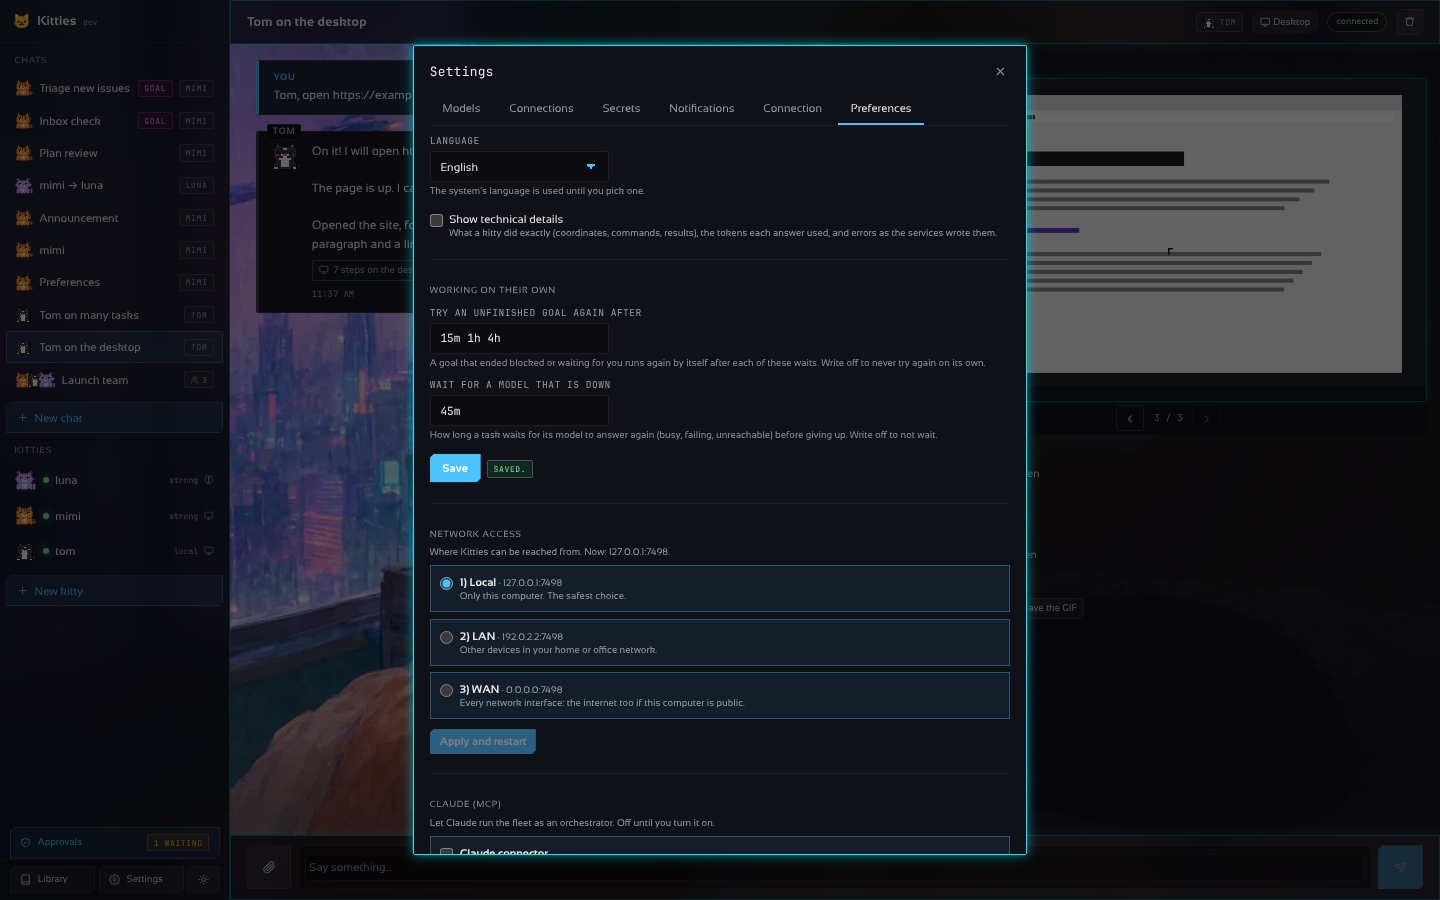
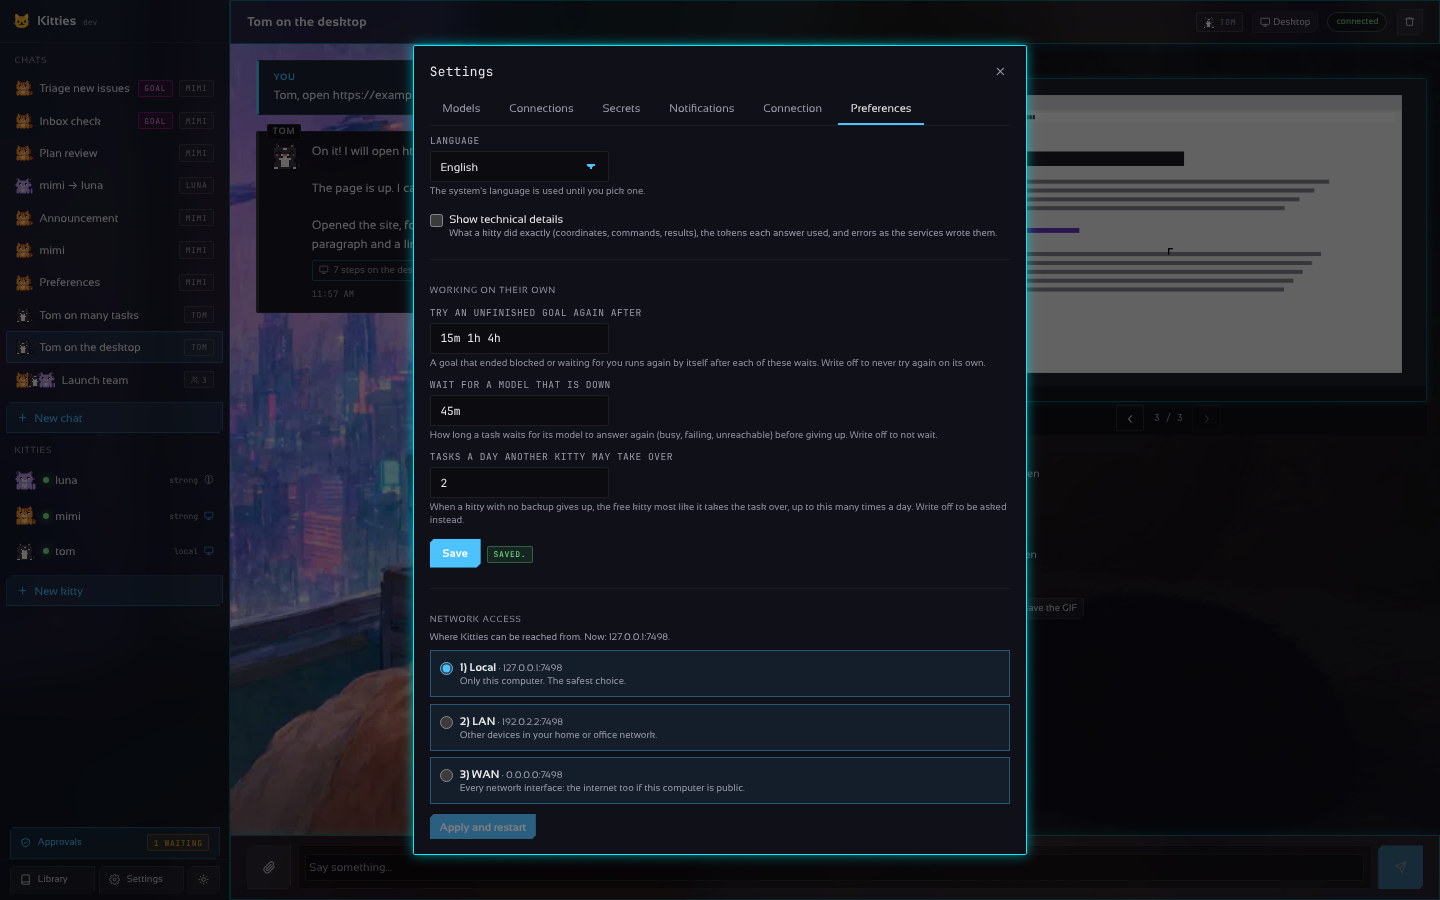
feat(chat): pick the most alike stand-in and cap stand-ins a day
The stand-in for a kitty without a backup is now the free kitty most
like it (connectors it uses, shared soul skills, machine on), and a
kitty may hand at most `autonomy.stand_ins` tasks a day (3 by default,
"off" asks the person), so an impossible task does not tour the fleet.
Settings field, docs and screenshot updated.

Claude-Session: https://claude.ai/code/session_017Z7sUZPBrqHudNwxj2SLN7

Changed region(s): [[0.2812, 0.4978, 0.5312, 0.9333], [0.625, 0.56, 0.6875, 0.5911], [0.4375, 0.4978, 0.4688, 0.5289]]

diff --git a/desktop/frontend/src/Settings.tsx b/desktop/frontend/src/Settings.tsx
@@ -1763,13 +1763,18 @@ function AutonomyForm({
 }) {
   const [followUps, setFollowUps] = useState(view.autonomy?.follow_ups || "");
   const [brainWait, setBrainWait] = useState(view.autonomy?.brain_wait || "");
+  const [standIns, setStandIns] = useState(view.autonomy?.stand_ins || "");
   const [msg, flash] = useFlash();
   const [err, setErr] = useState("");
   const save = async () => {
     setErr("");
     try {
       onSaved(
-        await api.setAutonomy({ follow_ups: followUps.trim(), brain_wait: brainWait.trim() }),
+        await api.setAutonomy({
+          follow_ups: followUps.trim(),
+          brain_wait: brainWait.trim(),
+          stand_ins: standIns.trim(),
+        }),
       );
       flash(t("Saved."));
     } catch (e) {
@@ -1807,6 +1812,21 @@ function AutonomyForm({
       <p class={HELP}>
         {t(
           "How long a task waits for its model to answer again (busy, failing, unreachable) before giving up. Write off to not wait.",
+        )}
+      </p>
+      <label class={LABEL} for="auto-stand-ins">
+        {t("Tasks a day another kitty may take over")}
+      </label>
+      <input
+        id="auto-stand-ins"
+        class={`${INPUT} !w-56 font-mono`}
+        value={standIns}
+        onInput={(e) => setStandIns((e.target as HTMLInputElement).value)}
+        placeholder="3"
+      />
+      <p class={HELP}>
+        {t(
+          "When a kitty with no backup gives up, the free kitty most like it takes the task over, up to this many times a day. Write off to be asked instead.",
         )}
       </p>
       <div class="flex items-center gap-2 mt-4 flex-wrap">

diff --git a/desktop/frontend/src/api.ts b/desktop/frontend/src/api.ts
@@ -373,7 +373,7 @@ export interface SettingsView {
   notify: { connector: string; on: string[]; digest?: string; day?: boolean };
   notify_events: string[];
   // autonomy is how long the kitties keep at a task on their own: empty takes the defaults.
-  autonomy?: { follow_ups: string; brain_wait: string };
+  autonomy?: { follow_ups: string; brain_wait: string; stand_ins?: string };
   accounts: Account[];
   // oauth_ready are the services a connection signs in to without an app of the person's own.
   oauth_ready?: string[];
@@ -940,7 +940,7 @@ export const api = {
     request("POST", `/v1/chats/${chat}/turns/${index}/feedback`, { rating, note }),
   setNotify: (c: { connector: string; on: string[]; digest?: string }) =>
     request<SettingsView>("PUT", "/v1/settings/notify", c),
-  setAutonomy: (a: { follow_ups: string; brain_wait: string }) =>
+  setAutonomy: (a: { follow_ups: string; brain_wait: string; stand_ins: string }) =>
     request<SettingsView>("PUT", "/v1/settings/autonomy", a),
   testNotify: (connector = "") =>
     request<{ ok: boolean; error?: string }>("POST", "/v1/settings/notify/test", { connector }),

diff --git a/desktop/frontend/e2e/screens.spec.ts b/desktop/frontend/e2e/screens.spec.ts
@@ -1808,6 +1808,7 @@ test("how long the kitties keep at a task on their own: checked, saved and kept"
   await expect(box).toContainText("autonomy.brain_wait");
   await box.locator("#auto-follow-ups").fill("15m 1h 4h");
   await box.locator("#auto-brain-wait").fill("45m");
+  await box.locator("#auto-stand-ins").fill("2");
   await box.getByTestId("autonomy-save").click();
   await expect(box.getByText("Saved.")).toBeVisible();
   await box.scrollIntoViewIfNeeded();
@@ -1817,8 +1818,10 @@ test("how long the kitties keep at a task on their own: checked, saved and kept"
   await page.locator("aside").getByRole("button", { name: "Settings" }).click();
   await page.getByRole("tab", { name: "Preferences" }).click();
   await expect(box.locator("#auto-follow-ups")).toHaveValue("15m 1h 4h");
+  await expect(box.locator("#auto-stand-ins")).toHaveValue("2");
   await box.locator("#auto-follow-ups").fill("");
   await box.locator("#auto-brain-wait").fill("");
+  await box.locator("#auto-stand-ins").fill("");
   await box.getByTestId("autonomy-save").click();
   await expect(box.getByText("Saved.")).toBeVisible();
 });

diff --git a/desktop/frontend/src/i18n/es/settings.ts b/desktop/frontend/src/i18n/es/settings.ts
@@ -63,6 +63,9 @@ const dict: Dictionary = {
   "Only to reach it through a proxy or a compatible service.":
     "Solo para llegar a él a través de un proxy o un servicio compatible.",
   "Longest answer (tokens)": "Respuesta más larga (tokens)",
+  "Tasks a day another kitty may take over": "Tareas al día que otro kitty puede tomar",
+  "When a kitty with no backup gives up, the free kitty most like it takes the task over, up to this many times a day. Write off to be asked instead.":
+    "Cuando un kitty sin respaldo se rinde, el kitty libre más parecido toma la tarea, hasta esta cantidad de veces al día. Escribe off para que te pregunten a ti.",
   "Working on their own": "Trabajo por su cuenta",
   "Try an unfinished goal again after": "Reintentar un objetivo sin terminar tras",
   "A goal that ended blocked or waiting for you runs again by itself after each of these waits. Write off to never try again on its own.":

diff --git a/desktop/frontend/src/i18n/pt/settings.ts b/desktop/frontend/src/i18n/pt/settings.ts
@@ -63,6 +63,9 @@ const dict: Dictionary = {
   "Only to reach it through a proxy or a compatible service.":
     "Só para chegar a ele por um proxy ou um serviço compatível.",
   "Longest answer (tokens)": "Resposta mais longa (tokens)",
+  "Tasks a day another kitty may take over": "Tarefas por dia que outro kitty pode assumir",
+  "When a kitty with no backup gives up, the free kitty most like it takes the task over, up to this many times a day. Write off to be asked instead.":
+    "Quando um kitty sem reserva desiste, o kitty livre mais parecido assume a tarefa, até este número de vezes por dia. Escreva off para que perguntem a você.",
   "Working on their own": "Trabalho por conta própria",
   "Try an unfinished goal again after": "Tentar de novo um objetivo inacabado após",
   "A goal that ended blocked or waiting for you runs again by itself after each of these waits. Write off to never try again on its own.":

diff --git a/internal/chat/autonomy.go b/internal/chat/autonomy.go
@@ -291,15 +291,74 @@ func (s *Service) giveUp(id string, index int, k *kitty.Kitty, fail string) (res
 }
 
 // standIn is the kitty that takes over a task k gave up on when k names no backup: another one
-// with a desktop as k has, not in error and not at work on something else; nil when none is free.
+// with a desktop as k has, not in error and not at work on something else, the most like k
+// (the connectors k uses, the skills of its soul); nil when none is free, or when k has handed
+// over as many tasks today as its stand-ins allow.
 func (s *Service) standIn(k *kitty.Kitty) *kitty.Kitty {
+	var best *kitty.Kitty
+	bestScore := -1
 	for _, other := range s.fleet.List() {
 		if other.ID == k.ID || other.Desktop != k.Desktop || other.Status == kitty.StatusError || s.KittyBusy(other.ID) {
 			continue
 		}
-		return other
+		if score := likeness(k, other); score > bestScore {
+			best, bestScore = other, score
+		}
 	}
-	return nil
+	if best == nil || !s.standInLeft(k.ID) {
+		return nil
+	}
+	return best
+}
+
+// likeness is how well other can do k's work: two points for each connector of k it may use
+// too (a kitty with no list may use every one), one for each skill their souls share, and one
+// for a machine that is on.
+func likeness(k, other *kitty.Kitty) int {
+	score := 0
+	for _, c := range k.Connectors {
+		if len(other.Connectors) == 0 || contains(other.Connectors, c) {
+			score += 2
+		}
+	}
+	for _, a := range k.Soul.Skills {
+		for _, b := range other.Soul.Skills {
+			if strings.EqualFold(strings.TrimSpace(a), strings.TrimSpace(b)) {
+				score++
+				break
+			}
+		}
+	}
+	if other.Status == kitty.StatusRunning {
+		score++
+	}
+	return score
+}
+
+// DefaultStandIns is how many tasks a day a kitty without a backup may hand to a stand-in.
+const DefaultStandIns = 3
+
+// SetStandIns has the stand-ins a kitty may use a day read from fn (the settings); zero: none.
+func (s *Service) SetStandIns(fn func() int) { s.standInsFrom = fn }
+
+// standInLeft takes one of the kitty's stand-ins for today, and reports whether there was one.
+// The count starts again each day, so a task nobody can do does not go round the whole fleet.
+func (s *Service) standInLeft(kittyID string) bool {
+	limit := DefaultStandIns
+	if s.standInsFrom != nil {
+		limit = s.standInsFrom()
+	}
+	day := s.now().Format("2006-01-02")
+	s.mu.Lock()
+	defer s.mu.Unlock()
+	if s.standIns == nil || s.standInsDay != day {
+		s.standIns, s.standInsDay = map[string]int{}, day
+	}
+	if s.standIns[kittyID] >= limit {
+		return false
+	}
+	s.standIns[kittyID]++
+	return true
 }
 
 // lastRequest is what the thread asked for before the turn at index: the last message that

diff --git a/internal/chat/standin_test.go b/internal/chat/standin_test.go
@@ -4,6 +4,7 @@ import (
 	"context"
 	"strings"
 	"testing"
+	"time"
 
 	"github.com/madkoding/kitties/internal/kitty"
 	"github.com/madkoding/kitties/internal/soul"
@@ -55,5 +56,43 @@ func TestStandIn(t *testing.T) {
 	_, _ = s2.Send(context.Background(), c.ID, "go")
 	if turn := waitDone(t, s2, c.ID).Turns[1]; !turn.NeedsHelp {
 		t.Errorf("attended: %+v", turn)
+	}
+}
+
+func TestStandInIsTheMostAlikeAndCappedADay(t *testing.T) {
+	s, d, _ := deskService(t)
+	ana, _ := d.Get("ana") // connectors: echo
+	ana.Soul.Skills = []string{"Research", "writing"}
+	// cy has nothing in common; dee shares a skill; eve may use every connector and is on.
+	d.kitties["c1"] = &kitty.Kitty{ID: "c1", Name: "cy", Desktop: true, Connectors: []string{"other"}}
+	d.kitties["d1"] = &kitty.Kitty{ID: "d1", Name: "dee", Desktop: true, Connectors: []string{"other"}, Soul: soul.Soul{Skills: []string{" research "}}}
+	d.kitties["e1"] = &kitty.Kitty{ID: "e1", Name: "eve", Desktop: true, Status: kitty.StatusRunning}
+	if got := s.standIn(ana); got == nil || got.Name != "eve" {
+		t.Fatalf("most alike = %v", got)
+	}
+	if likeness(ana, d.kitties["d1"]) != 1 || likeness(ana, d.kitties["e1"]) != 3 || likeness(ana, d.kitties["c1"]) != 0 {
+		t.Error("likeness")
+	}
+	// Three a day by default (one already taken above), then nobody; a new day starts again.
+	now := time.Date(2026, 3, 2, 10, 0, 0, 0, time.UTC)
+	s.now = func() time.Time { return now }
+	s.standIns = nil
+	for i := 0; i < DefaultStandIns; i++ {
+		if s.standIn(ana) == nil {
+			t.Fatalf("stand-in %d refused", i+1)
+		}
+	}
+	if s.standIn(ana) != nil {
+		t.Error("past the day's stand-ins")
+	}
+	now = now.Add(24 * time.Hour)
+	if s.standIn(ana) == nil {
+		t.Error("a new day")
+	}
+	// From the settings: off means none.
+	s.SetStandIns(func() int { return 0 })
+	now = now.Add(24 * time.Hour)
+	if s.standIn(ana) != nil {
+		t.Error("off in the settings")
 	}
 }

diff --git a/internal/config/autonomy.go b/internal/config/autonomy.go
@@ -2,6 +2,7 @@ package config
 
 import (
 	"fmt"
+	"strconv"
 	"strings"
 	"time"
 )
@@ -11,11 +12,13 @@ import (
 //	autonomy:
 //	  follow_ups: 10m 30m 2h   # waits before a goal that did not finish runs again; "off": never
 //	  brain_wait: 30m          # how long a task waits for a model that is down; "off": not at all
+//	  stand_ins: 3             # tasks a day a kitty without a backup hands to a free one; "off": none
 //
 // Empty takes the defaults.
 type Autonomy struct {
 	FollowUps string `yaml:"follow_ups" json:"follow_ups"`
 	BrainWait string `yaml:"brain_wait" json:"brain_wait"`
+	StandIns  string `yaml:"stand_ins" json:"stand_ins"`
 }
 
 // maxWait is the longest single wait either setting takes.
@@ -32,8 +35,33 @@ func (a Autonomy) Validate() error {
 	if _, err := a.followUps(nil); err != nil {
 		return err
 	}
-	_, err := a.brainWait(0)
+	if _, err := a.brainWait(0); err != nil {
+		return err
+	}
+	_, err := a.standIns(0)
 	return err
+}
+
+// StandInsOr is how many tasks a day a kitty without a backup hands to a free kitty: def when
+// unset, zero when off.
+func (a Autonomy) StandInsOr(def int) int {
+	n, _ := a.standIns(def)
+	return n
+}
+
+func (a Autonomy) standIns(def int) (int, error) {
+	switch s := strings.TrimSpace(a.StandIns); {
+	case s == "":
+		return def, nil
+	case off(s):
+		return 0, nil
+	default:
+		n, err := strconv.Atoi(s)
+		if err != nil || n < 1 || n > 100 {
+			return def, fmt.Errorf("autonomy.stand_ins: %q is not a number between 1 and 100 (or off)", s)
+		}
+		return n, nil
+	}
 }
 
 // FollowUpWaits are the waits before the follow-ups of a goal that did not finish: def when

diff --git a/internal/config/autonomy_test.go b/internal/config/autonomy_test.go
@@ -18,6 +18,9 @@ func TestAutonomy(t *testing.T) {
 	if w := a.FollowUpWaits(def); len(w) != 3 || w[0] != 5*time.Minute || w[2] != 150*time.Minute || a.BrainWaitOr(time.Hour) != 45*time.Minute {
 		t.Errorf("waits = %v %v", w, a.BrainWaitOr(time.Hour))
 	}
+	if (Autonomy{}).StandInsOr(3) != 3 || (Autonomy{StandIns: "5"}).StandInsOr(3) != 5 || (Autonomy{StandIns: "off"}).StandInsOr(3) != 0 || (Autonomy{StandIns: "x"}).StandInsOr(3) != 3 {
+		t.Error("stand-ins")
+	}
 	for _, o := range []string{"off", "OFF", "0", "none"} {
 		a := Autonomy{FollowUps: o, BrainWait: o}
 		if a.Validate() != nil || a.FollowUpWaits(def) == nil || len(a.FollowUpWaits(def)) != 0 || a.BrainWaitOr(time.Hour) != 0 {
@@ -32,6 +35,8 @@ func TestAutonomy(t *testing.T) {
 		{Autonomy{FollowUps: "10s"}, "between 1m and 168h"},
 		{Autonomy{FollowUps: "1m 1m 1m 1m 1m 1m 1m 1m 1m 1m 1m"}, "10 at most"},
 		{Autonomy{BrainWait: "200h"}, "autonomy.brain_wait"},
+		{Autonomy{StandIns: "many"}, "autonomy.stand_ins"},
+		{Autonomy{StandIns: "500"}, "between 1 and 100"},
 	} {
 		if err := c.a.Validate(); err == nil || !strings.Contains(err.Error(), c.want) {
 			t.Errorf("%+v: %v", c.a, err)

diff --git a/cmd/kitties/main.go b/cmd/kitties/main.go
@@ -306,6 +306,7 @@ func (a *app) open(cmd string) error {
 	// How long a kitty keeps at a task on its own follows the settings as they change.
 	ag.Scheduler.SetFollowUps(func() []time.Duration { return fleet.Autonomy().FollowUpWaits(agenda.DefaultFollowUps) })
 	chats.SetBrainWait(func() time.Duration { return fleet.Autonomy().BrainWaitOr(chat.DefaultBrainWait) })
+	chats.SetStandIns(func() int { return fleet.Autonomy().StandInsOr(chat.DefaultStandIns) })
 	a.agenda = ag
 	dataDir := a.cfg.DataDirOr()
 	if a.approvals, err = approvals.Open(filepath.Join(dataDir, "approvals.json")); err != nil {

diff --git a/internal/chat/chat.go b/internal/chat/chat.go
@@ -185,6 +185,11 @@ type Service struct {
 	vault *vault.Store
 	// helps are the kitties waiting for the person's answer, by turn (help.go).
 	helps map[string]chan HelpAnswer
+	// standIns counts, for the day standInsDay, the tasks each kitty handed to a stand-in;
+	// standInsFrom gives how many it may (autonomy.go).
+	standIns     map[string]int
+	standInsDay  string
+	standInsFrom func() int
 	// resuming are the parked chats being woken up (resume.go).
 	resuming map[string]bool
 	now      func() time.Time

diff --git a/docs/AUTONOMY.md b/docs/AUTONOMY.md
@@ -27,8 +27,9 @@ A kitty is not only something you talk to. Each one has an agenda:
 - **Recovery.** A brain that is down for a while (busy, failing, unreachable) is waited for,
   up to half an hour, ever longer between tries, instead of failing the attempt; each wait shows
   in the chat. A failed attempt is retried with a different approach. When a kitty gives up,
-  its **backup** kitty takes the task over; without one, a free kitty of the fleet that can do
-  the same (a desktop if the task needs one, not in error, not at work) stands in; when none is
+  its **backup** kitty takes the task over; without one, the free kitty of the fleet most like it
+  (a desktop if the task needs one, not in error, not at work; then the connectors it uses and
+  the skills of its soul) stands in, up to `stand_ins` tasks a day (3 by default); when none is
   free (or the kitty is *attended*), the kitty asks you (the chat is
   marked *help* until you answer). A watchdog brings a stopped container back and retries a
   kitty in error.
@@ -58,6 +59,7 @@ In the YAML, under a kitty:
 autonomy:                        # Settings → Preferences → Working on their own
   follow_ups: 10m 30m 2h         # waits before an unfinished goal runs again; off: never
   brain_wait: 30m                # how long a task waits for a model that is down; off: not at all
+  stand_ins: 3                   # tasks a day a kitty without a backup hands to a free one; off: none
 kitties:
   - name: mimi
     backup: luna                 # takes over what mimi gives up on
